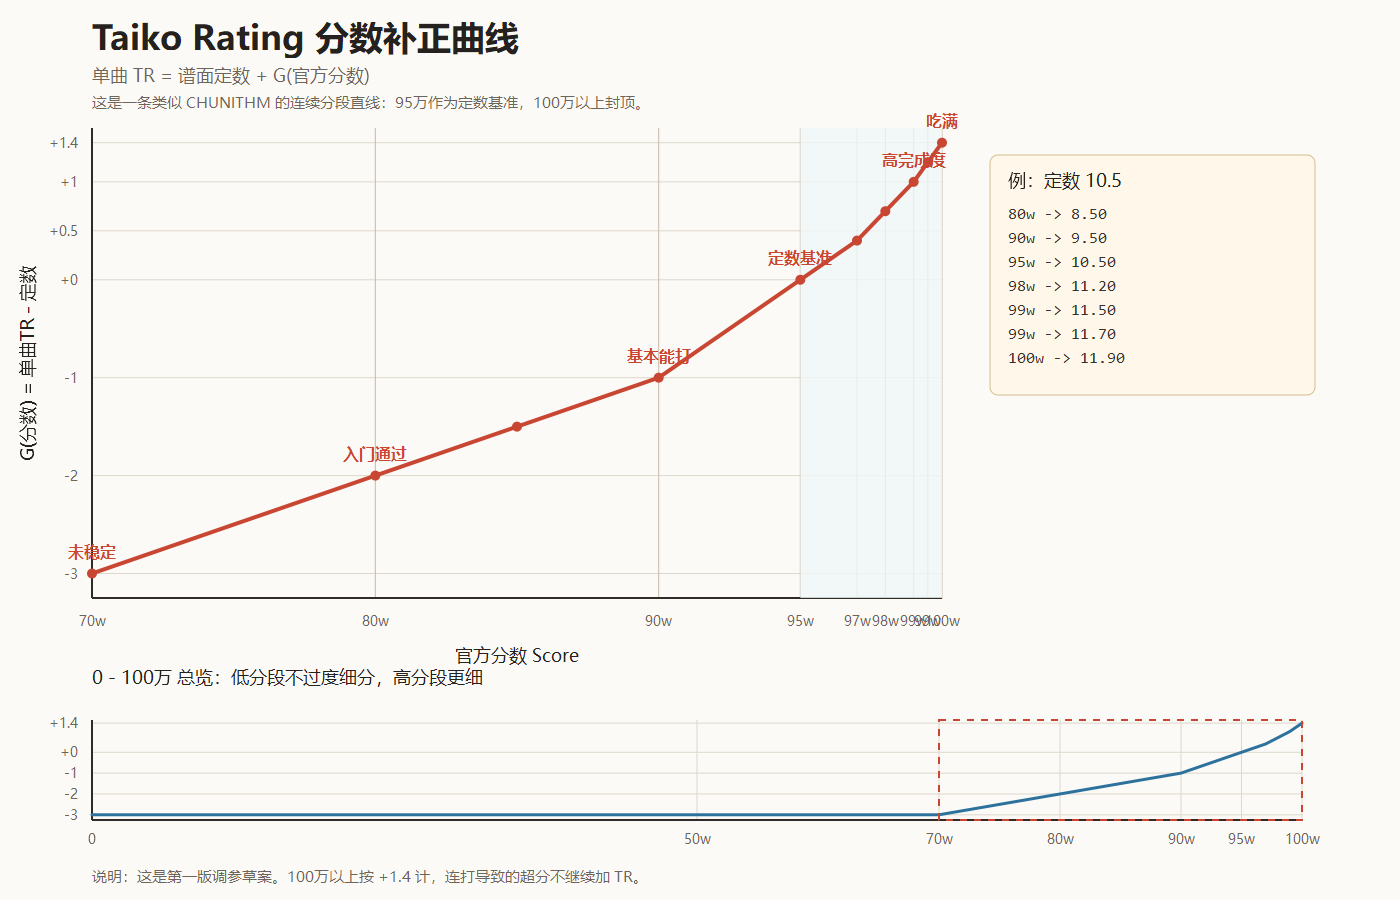
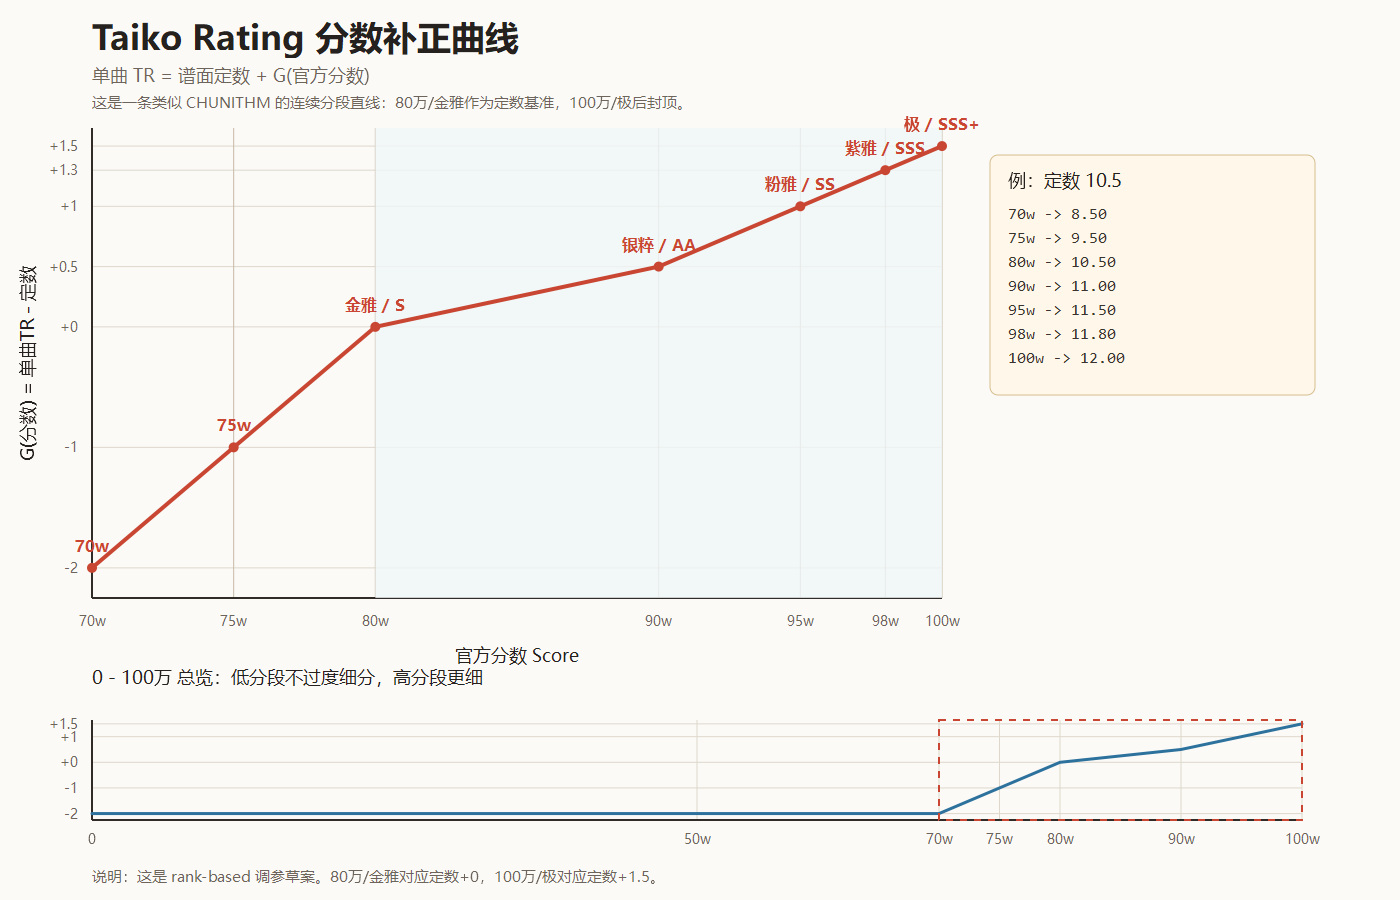
Update Taiko Rating curve to rank-based anchors

diff --git a/app.js b/app.js
@@ -44,16 +44,13 @@ function levelName(level) {
 function scoreBonus(score) {
   const rate = Math.max(0, Math.min(Number(score) / 1_000_000, 1));
   const anchors = [
-    [0.7, -3.0],
-    [0.8, -2.0],
-    [0.85, -1.5],
-    [0.9, -1.0],
-    [0.95, 0.0],
-    [0.97, 0.4],
-    [0.98, 0.7],
-    [0.99, 1.0],
-    [0.995, 1.2],
-    [1.0, 1.4],
+    [0.7, -2.0],
+    [0.75, -1.0],
+    [0.8, 0.0],
+    [0.9, 0.5],
+    [0.95, 1.0],
+    [0.98, 1.3],
+    [1.0, 1.5],
   ];
 
   if (rate <= anchors[0][0]) return anchors[0][1];

diff --git a/scripts/generate_taiko_rating_curve.py b/scripts/generate_taiko_rating_curve.py
@@ -19,16 +19,13 @@ COLORS = {
 
 
 ANCHORS = [
-    (700_000, -3.0, "未稳定"),
-    (800_000, -2.0, "入门通过"),
-    (850_000, -1.5, ""),
-    (900_000, -1.0, "基本能打"),
-    (950_000, 0.0, "定数基准"),
-    (970_000, 0.4, ""),
-    (980_000, 0.7, ""),
-    (990_000, 1.0, "高完成度"),
-    (995_000, 1.2, ""),
-    (1_000_000, 1.4, "吃满"),
+    (700_000, -2.0, "70w"),
+    (750_000, -1.0, "75w"),
+    (800_000, 0.0, "金雅 / S"),
+    (900_000, 0.5, "银粹 / AA"),
+    (950_000, 1.0, "粉雅 / SS"),
+    (980_000, 1.3, "紫雅 / SSS"),
+    (1_000_000, 1.5, "极 / SSS+"),
 ]
 
 
@@ -101,8 +98,8 @@ def sample(plot, fn, step):
 
 
 def make_svg():
-    main = Plot(92, 128, 850, 470, 700_000, 1_000_000, -3.25, 1.55)
-    overview = Plot(92, 720, 1210, 100, 0, 1_000_000, -3.25, 1.55)
+    main = Plot(92, 128, 850, 470, 700_000, 1_000_000, -2.25, 1.65)
+    overview = Plot(92, 720, 1210, 100, 0, 1_000_000, -2.25, 1.65)
     out = []
 
     out.append(
@@ -135,18 +132,18 @@ def make_svg():
         text(
             92,
             108,
-            "&#36825;&#26159;&#19968;&#26465;&#31867;&#20284; CHUNITHM &#30340;&#36830;&#32493;&#20998;&#27573;&#30452;&#32447;&#65306;95&#19975;&#20316;&#20026;&#23450;&#25968;&#22522;&#20934;&#65292;100&#19975;&#20197;&#19978;&#23553;&#39030;&#12290;",
+            "&#36825;&#26159;&#19968;&#26465;&#31867;&#20284; CHUNITHM &#30340;&#36830;&#32493;&#20998;&#27573;&#30452;&#32447;&#65306;80&#19975;/&#37329;&#38597;&#20316;&#20026;&#23450;&#25968;&#22522;&#20934;&#65292;100&#19975;/&#26497;&#21518;&#23553;&#39030;&#12290;",
             "small",
         )
     )
 
-    for y in [-3, -2, -1, 0, 0.5, 1.0, 1.4]:
+    for y in [-2, -1, 0, 0.5, 1.0, 1.3, 1.5]:
         yy = main.py(y)
         out.append(line(main.x, yy, main.x + main.w, yy, COLORS["grid"]))
         label = f"{y:+g}"
         out.append(text(main.x - 14, yy + 5, label, "tick", "end"))
 
-    for x in [700_000, 800_000, 900_000, 950_000, 970_000, 980_000, 990_000, 995_000, 1_000_000]:
+    for x in [700_000, 750_000, 800_000, 900_000, 950_000, 980_000, 1_000_000]:
         xx = main.px(x)
         out.append(line(xx, main.y, xx, main.y + main.h, COLORS["grid_strong"]))
         label = f"{x // 10_000}w" if x < 1_000_000 else "100w"
@@ -155,7 +152,7 @@ def make_svg():
     out.append(line(main.x, main.y + main.h, main.x + main.w, main.y + main.h, COLORS["axis"], 2))
     out.append(line(main.x, main.y, main.x, main.y + main.h, COLORS["axis"], 2))
     out.append(
-        f'<rect x="{main.px(950000):.2f}" y="{main.y:.2f}" width="{main.px(1000000)-main.px(950000):.2f}" '
+        f'<rect x="{main.px(800000):.2f}" y="{main.y:.2f}" width="{main.px(1000000)-main.px(800000):.2f}" '
         f'height="{main.h:.2f}" fill="{COLORS["shade"]}" opacity="0.8"/>'
     )
     out.append(polyline(sample(main, bonus, 500), COLORS["line"], 4))
@@ -183,7 +180,7 @@ def make_svg():
         f'<rect x="{px}" y="{py}" width="{pw}" height="{ph}" rx="8" fill="{COLORS["panel"]}" stroke="{COLORS["panel_stroke"]}"/>'
     )
     out.append(text(px + 18, py + 32, "&#20363;&#65306;&#23450;&#25968; 10.5", "label"))
-    examples = [800_000, 900_000, 950_000, 980_000, 990_000, 995_000, 1_000_000]
+    examples = [700_000, 750_000, 800_000, 900_000, 950_000, 980_000, 1_000_000]
     for i, score in enumerate(examples):
         out.append(
             text(
@@ -196,11 +193,11 @@ def make_svg():
 
     # Overview.
     out.append(text(92, 684, "0 - 100&#19975; &#24635;&#35272;&#65306;&#20302;&#20998;&#27573;&#19981;&#36807;&#24230;&#32454;&#20998;&#65292;&#39640;&#20998;&#27573;&#26356;&#32454;", "label"))
-    for y in [-3, -2, -1, 0, 1.4]:
+    for y in [-2, -1, 0, 1.0, 1.5]:
         yy = overview.py(y)
         out.append(line(overview.x, yy, overview.x + overview.w, yy, COLORS["grid"]))
         out.append(text(overview.x - 14, yy + 5, f"{y:+g}", "tick", "end"))
-    for x in [0, 500_000, 700_000, 800_000, 900_000, 950_000, 1_000_000]:
+    for x in [0, 500_000, 700_000, 750_000, 800_000, 900_000, 1_000_000]:
         xx = overview.px(x)
         out.append(line(xx, overview.y, xx, overview.y + overview.h, COLORS["grid"]))
         label = "0" if x == 0 else f"{x // 10_000}w"
@@ -217,7 +214,7 @@ def make_svg():
         text(
             92,
             882,
-            "&#35828;&#26126;&#65306;&#36825;&#26159;&#31532;&#19968;&#29256;&#35843;&#21442;&#33609;&#26696;&#12290;100&#19975;&#20197;&#19978;&#25353; +1.4 &#35745;&#65292;&#36830;&#25171;&#23548;&#33268;&#30340;&#36229;&#20998;&#19981;&#32487;&#32493;&#21152; TR&#12290;",
+            "&#35828;&#26126;&#65306;&#36825;&#26159; rank-based &#35843;&#21442;&#33609;&#26696;&#12290;80&#19975;/&#37329;&#38597;&#23545;&#24212;&#23450;&#25968;+0&#65292;100&#19975;/&#26497;&#23545;&#24212;&#23450;&#25968;+1.5&#12290;",
             "small",
         )
     )